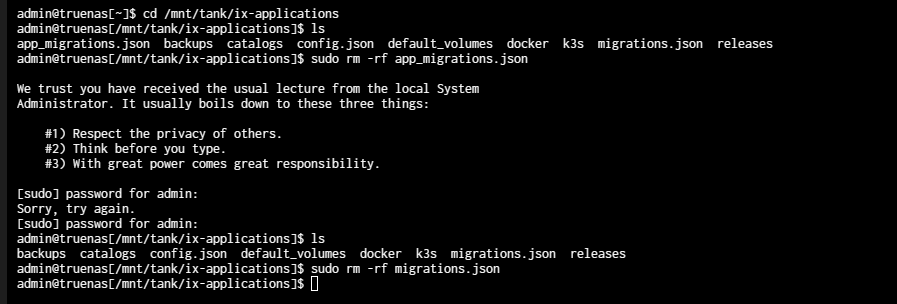
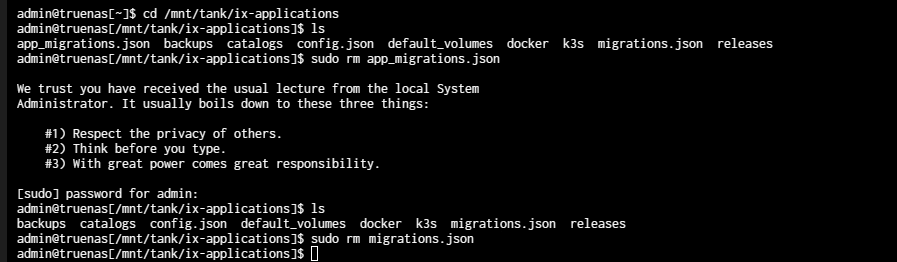
PD-856: Tim M review
- Update image to better reflect a safe troubleshoot command
- Text review and some cleanup for grammar, style, and clarity

Changed region(s): [[0.0, 0.2748, 0.7179, 1.0], [0.0, 0.0305, 0.874, 0.2443]]

diff --git a/content/GettingStarted/23.10Upgrades.md b/content/GettingStarted/23.10Upgrades.md
@@ -37,57 +37,58 @@ Changing trains is a one-way operation!
 Do not change to a prerelease or nightly release unless the system is intended to permanently remain on early versions and is not storing any critical data.
 
 ## Upgrading when Apps are Deployed
-If upgrading from Bluefin to Cobia when applications are deployed, the upgrade is a one-way operation.
+Upgrading from Bluefin to Cobia when applications are deployed is a one-way operation.
 
 You cannot return to or roll back to an earlier SCALE release by simply activating an earlier release boot environment.
-You also cannot easily roll back app on-disk data after updating the structure to Cobia. 
-After upgrading to Cobia, deployed apps do not work in the earlier release boot environment because the path to ***system dataset*/ix-applications/docker** does not exist in Cobia and is removed from the earlier release as a result of the upgrade. 
+You also cannot easily roll back app on-disk data after updating the structure to Cobia.
+After upgrading to Cobia, deployed apps do not work in the earlier release boot environment because the path to ***system dataset*/ix-applications/docker** does not exist in Cobia and is not restored when rolling back.
 
-To rollback to an earlier SCALE release and bring your applications back online, before you upgrade to Cobia you must have snapshots of all datasets apps use, then create and run replication tasks to back up those snapshots. 
-After upgrading you use these backed up snapshots and replication tasks to restore the early release to a state where you can get apps running again. 
+When apps are deployed in an earlier SCALE major version, you must take snapshots of all datasets that the deployed apps use, then create and run replication tasks to back up those snapshots.
+After rolling back to the earlier version from 23.10 (Cobia), these snapshots are used to restore the applications datasets to their pre-upgrade condition and allow previously installed apps to resume normal functionality.
 
-You need pre-upgrade snapshots of the **ix-applications** dataset and a recursive snapshot of **ix-applications** to get the **docker** dataset, and then snapshots of all datasets apps use as host paths.
-Without these snapshots, to downgrade to Bluefin requires deleting the app(s) and redeploying it/them. 
+At minimum, you need pre-upgrade snapshots of the **ix-applications** dataset and a recursive snapshot of **ix-applications** to get the **docker** dataset, and then snapshots of all datasets apps use as host paths.
+Without these snapshots, to downgrade to Bluefin requires deleting the app(s) and redeploying it/them.
 
-Replication tasks should copy the snapshots to a remote server used for backups of your data. 
-If you do not have a remote server to store backed up snapshots, you can create a new pool and dataset on the system but this is not recommended or best practices.
+It is recommended to use replication tasks to copy snapshots to a remote server used for backups of your data.
+If you do not have a remote server to store backup snapshots, you can create a new pool and dataset on the system for local replications, but this is not a recommended general backup strategy.
 
-When you rollback the local server, copy the snapshots from the remote server to the local server but do not save the snapshots in the **ix-applications** dataset. Create a new dataset on the same pool as the **ix-applications** dataset (the pool apps use).
+When you rollback the TrueNAS SCALE system from Cobia to an earlier SCALE major version, copy the snapshots from the remote backup server to the local system in a new temporary dataset.
+Create a new dataset on the same pool as the **ix-applications** dataset (the pool apps use).
 
 ### Before Upgrading
 
 1. Verify your Bluefin apps are running (not stopped or in the deploying state), and that you have access to your data and the application web portals. 
 
-2. Create and run a replication tasks to a remote server. 
-   See [Setting Up a Remote Replication Task](https://www.truenas.com/docs/scale/scaletutorials/dataprotection/replication/remotereplicationscale/) for more information. 
-   Before upgrading to Cobia create and run replicated snapshots for:
+2. Create and run replication tasks to a remote server. 
+   See [Setting Up a Remote Replication Task]({{< relref "RemoteReplicationSCALE.md" >}}) for more information.
+   Before upgrading to Cobia, create and replicate snapshots for:
 
-   * The **ix-applications** dataset to restore the migration json files to the earlier version.
+   * The **ix-applications** dataset to restore the migration JSON files to the earlier version.
    * A recursive replication of the **ix-applications** dataset to see the docker snapshot.
-   * Snapshots of any datasets apps use for storage, such as the MinIO app **data** dataset.
+   * Snapshots of any datasets that deployed apps use for storage, such as the MinIO app **data** dataset.
 
-   If a Bluefin apps uses host path(s) to existing datasets, such as with the MinIO and the **/data** dataset, create and run remote replication tasks for these datasets. 
+   If a Bluefin app uses host path(s) to existing datasets, such as with the MinIO and the **/data** dataset, create and run remote replication tasks for these datasets.
    If you nested these datasets for apps under a parent dataset, set up a recursive remote replication of the parent dataset to create the snapshots of all the nested child datasets the apps use.
 
 3. Upgrade to Cobia and save the configuration file. This is always recommended so you can restore your system configuration if necessary.
 
 ### Rolling Back to an Earlier SCALE Release
-Do not replicate the snapshot back to the **ix-applications** dataset! 
-Create a dataset or use an existing dataset on the same pool as the **ix-applications** dataset to hold these snapshots. 
+Do not replicate remote backup snapshots into the **ix-applications** dataset!
+Create a dataset or use an existing dataset on the same pool as the **ix-applications** dataset to hold these snapshots.
 
-1. Select the earlier release boot environment, make it the active boot environment, then reboot the system. 
-   See [Managing Boot Environments](https://www.truenas.com/docs/scale/scaletutorials/systemsettings/managebootenvironscale/) for more information.
+1. Select the earlier release boot environment, make it the active boot environment, then reboot the system.
+   See [Managing Boot Environments]({{< relref "ManageBootEnvironSCALE" >}}) for more information.
 
-2. Go to the remote system and create and run a replication task to copy the snapshots back to the system you rolled back to an earlier SCALE release. 
-   Alternatively, you can create a **Pull** replication task on the rolled-back system to bring the snapshots from the remote system to the local system. 
+2. Go to the remote system and create and run a replication task to copy the snapshots back to the system you rolled back to an earlier SCALE release.
+   Alternately, create a **Pull** replication task on the rolled-back system to bring the snapshots from the remote system to the local system.
 
    Replicate each snapshot: the **ix-applications**, **ix-applications/docker**, and all snapshots of datasets set up as host paths in an application.
-   
-   If moving a snapshot from a different pool on the same server, replicate to a dataset on the same pool as the **ix-applications** dataset (for example, *tank/repsnaps* if **ix-applications** is in the *tank* pool). 
- 
+
+   When moving a snapshot from a different pool on the same server, replicate to a dataset on the same pool as the **ix-applications** dataset (for example, *tank/repsnaps* if **ix-applications** is in the *tank* pool).
+
 3. Go to the location of the snapshots, then:
-   
-   a. Roll back to the **ix-applications** snapshot taken before the upgrade. This updates the migration json files to the pre-upgrade version of the files.
+
+   a. Roll back to the **ix-applications** snapshot taken before the upgrade. This updates the migration JSON files to the pre-upgrade version of the files.
 
    b. Locate the **ix-applications/docker** snapshot, click on it to expand it, then click **Clone to Dataset**. 
       Rename the dataset to ***poolname*/ix-applications/docker** to create the missing **docker** dataset from this snapshot.
@@ -104,23 +105,32 @@ Create a dataset or use an existing dataset on the same pool as the **ix-applica
 
    Where *poolname* is the name of the pool assigned as the pool for applications to use and with the **ix-applications** dataset.
 
-   The command output should now show the docker dataset.
+   The command output now show the docker dataset.
 
 5. Reboot the system.
 
-The applications should now show on the **Applications > Installed Applications** screen. It takes a while for apps to return to the **Active** state.
+The applications now show on the **Applications > Installed Applications** screen.
+It takes a while for apps to return to the **Active** state.
 
-After doing the above, if the applications do not show on the **Installed Applications** screen, either open an SSH session or go to **Shell** and run the command to remove the app_migrations.json and migrations.json files. Enter at the prompt:
+{{< expand "Troubleshooting if Apps don't return to an Active state" >}}
 
-`sudo rm -rf app_migrations.json`
+After doing the above, if the applications do not show on the **Installed Applications** screen, either open an SSH session or go to **Shell**, `cd` to the **ix-applications** dataset location, and remove the app_migrations.json and migrations.json files.
+
+This command is destructive and could interfere with automatic updating for the currently installed applications.
+
+Enter at the prompt:
+
+`sudo rm app_migrations.json`
 
 When prompted, enter the admin password. 
 Repeat the command for the migrations.json file.
 
 {{< trueimage src="/images/SCALE/23.10/CLICommandToRemoveMigrateJsonFiles.png" alt="Removing the Json Migration Files" id="Removing the Json Migration Files" >}}
 
-Reboot the system, then return to the **Applications > Installed Applications** screen. The applications should show. 
-Wait for the apps to return to the **Active** state, then check the web portal for your apps.
+Reboot the system, then return to the **Applications > Installed Applications** screen.
+The applications are now visible.
+Wait for the apps to return to the **Active** state.
+{{< /expand >}}
 
 ## Migrating from CORE to SCALE
 

diff --git a/content/_includes/UpgradePools.md b/content/_includes/UpgradePools.md
@@ -2,7 +2,7 @@
 
 Storage pool upgrades are typically not required unless the new OpenZFS feature flags are deemed necessary for required or improved system operation.
 
-Do *not* do a pool-wide ZFS upgrade until you are ready to commit forever! 
+Do *not* do a pool-wide ZFS upgrade until you are ready to commit to this SCALE major version and lose the ability to roll back to an earlier major version!
 
 Consider these factors before upgrading a storage pool to the latest OpenZFS feature flags.
 

diff --git a/content/SCALETutorials/Storage/Pools/ManagePoolsScale.md b/content/SCALETutorials/Storage/Pools/ManagePoolsScale.md
@@ -122,7 +122,7 @@ See [Replacing Disks]({{< relref "/SCALETutorials/Storage/Pools/Disks/ReplacingD
 
 Click **Expand** on the **Storage Dashboard** to increase the pool size to match all available disk space. An example is expanding a pool when resizing virtual disks apart from TrueNAS.
 
-## Updating a Pool
+## Upgrading a Pool
 
 {{< include file="/_includes/UpgradePoolsContent.md" >}}
 
